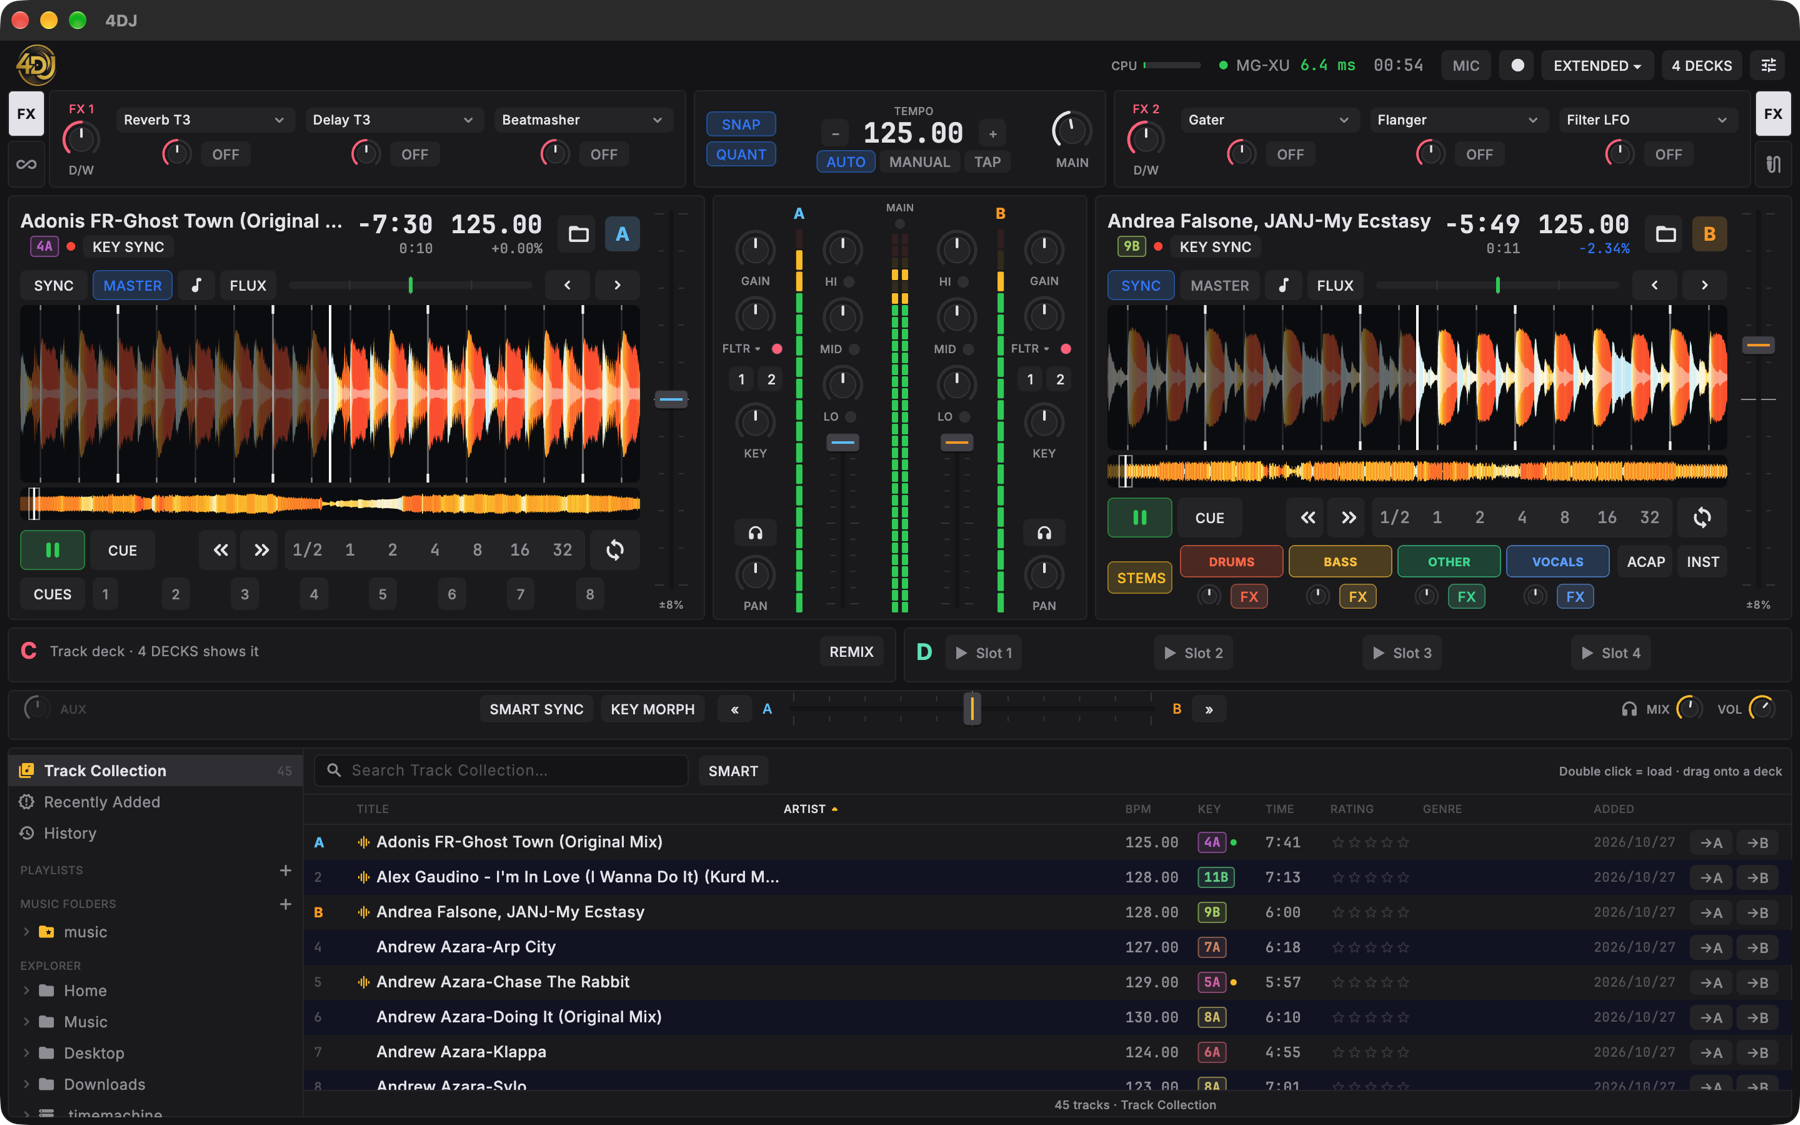
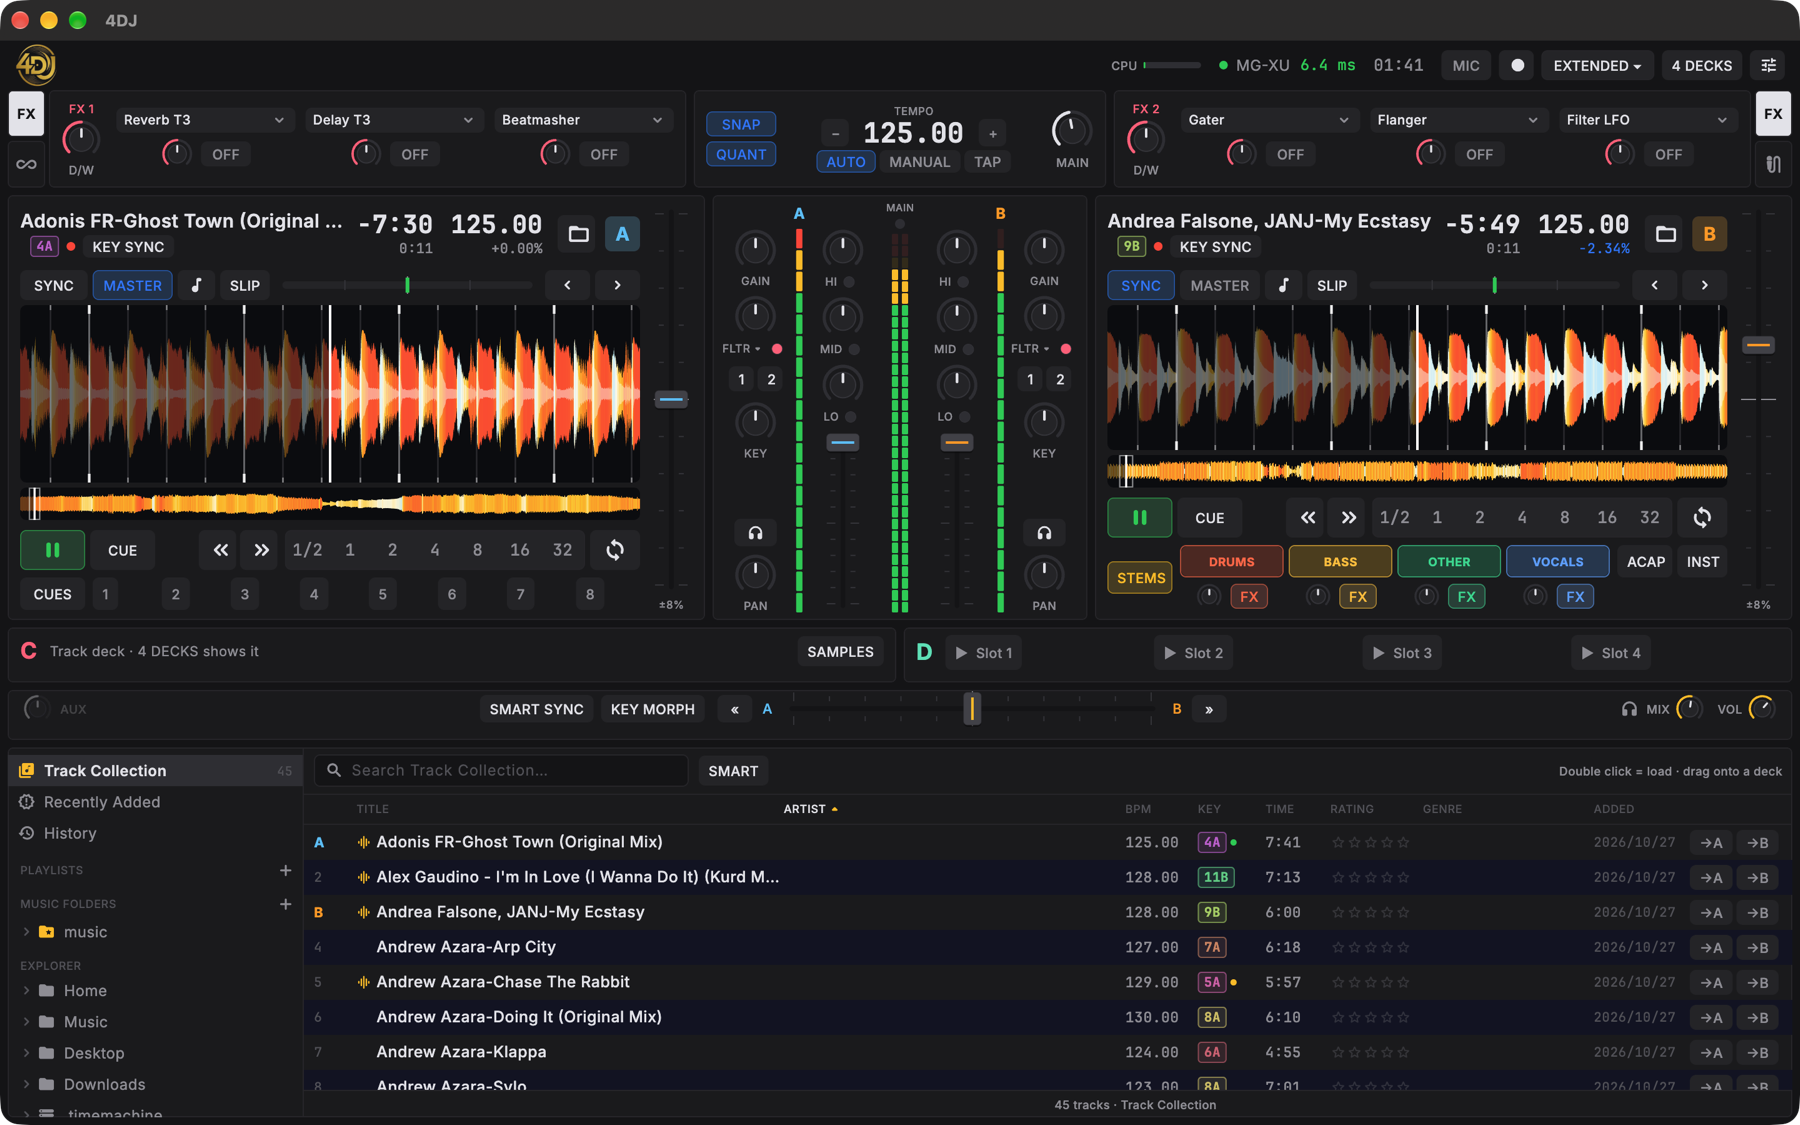
4DJ 0.2.0: Windows, Slip mode and Sample Decks, new screenshots

diff --git a/README.it.md b/README.it.md
@@ -39,7 +39,7 @@ Al primo avvio il **Setup Assistant** chiede tre cose: la scheda audio, le carte
 ## Cosa fa 4DJ
 
 ### Deck
-- 2 o 4 deck. Play, CUE (tenuto: anteprima, come un CDJ), 8 hotcue per traccia, loop da 1/2 a 32 battute, beatjump, Flux mode e reverse.
+- 2 o 4 deck. Play, CUE (tenuto: anteprima, come un CDJ), 8 hotcue per traccia, loop da 1/2 a 32 battute, beatjump, Slip mode e reverse.
 - Tempo fader con key lock, manopola KEY per ±12 semitoni, e SYNC (Beat Sync o Tempo Sync).
 - Scratch e nudge trascinando la waveform. Waveform a colori con zoom, overview, segni di cue e loop, e avviso prima della fine della traccia.
 
@@ -97,14 +97,14 @@ Al primo avvio il **Setup Assistant** chiede tre cose: la scheda audio, le carte
 
 ## Kontrol S2 MK3
 
-Collegala e 4DJ la usa subito, scheda audio compresa (master e cuffie).
+Collegala e 4DJ la usa subito, scheda audio compresa (master e cuffie), su macOS e Windows. Su Windows 4DJ usa la sua scheda in modalità a bassa latenza (circa 7 ms).
 
 | Controllo | In 4DJ |
 |---|---|
 | PLAY, CUE, SYNC, KEYLOCK | Come scritto sulla console (SHIFT + CUE: torna all'inizio; SHIFT + SYNC: master; SHIFT + KEYLOCK: range del tempo) |
-| FLX, REV | Flux mode; reverse finché tenuto |
+| FLX, REV | Slip mode; reverse finché tenuto |
 | Jog | Sopra: scratch. Bordo: nudge. SHIFT: ricerca veloce |
-| Pad | HOTCUES, SHIFT + HOTCUES = loop, SAMPLES = Remix Deck, SHIFT + SAMPLES = stem |
+| Pad | HOTCUES, SHIFT + HOTCUES = loop, SAMPLES = Sample Deck, SHIFT + SAMPLES = stem |
 | BROWSE | Gira per scegliere, premi per caricare |
 | MOVE | Beatjump |
 | LOOP | Gira: ridimensiona il loop attivo o sceglie la misura del prossimo. Premi: loop acceso/spento |
@@ -139,6 +139,8 @@ Su Windows e Linux ⌘ è Ctrl. In 4DJ premi **?** per l'elenco completo.
 **Dove sono le mie impostazioni?** In 4DJ. **Impostazioni → Export…** le salva in un file, per un backup o un altro computer; **Import…** le riporta.
 
 **4DJ modifica i miei file musicali?** No. BPM, tonalità, griglie, cue e valutazioni restano nella libreria di 4DJ.
+
+**Su Windows, perché le altre app non suonano sulla scheda della console?** Per la latenza più bassa 4DJ prende la scheda della Kontrol S2 MK3 tutta per sé (modalità esclusiva). Le altre app tornano a suonare quando chiudi 4DJ; in **Impostazioni → Audio → Devices** puoi spegnere la modalità esclusiva (latenza più alta).
 
 **Dove sono le mie registrazioni?** In Musica/4DJ Recordings, o nella cartella scelta in **Impostazioni → Recording → Mix Recorder**.
 

diff --git a/README.md b/README.md
@@ -39,7 +39,7 @@ On first start the **Setup Assistant** asks for three things: the sound card, yo
 ## What 4DJ does
 
 ### Decks
-- 2 or 4 decks. Play, CUE (hold to preview, like a CDJ), 8 hotcues per track, loops from 1/2 to 32 beats, beatjump, Flux mode and reverse.
+- 2 or 4 decks. Play, CUE (hold to preview, like a CDJ), 8 hotcues per track, loops from 1/2 to 32 beats, beatjump, Slip mode and reverse.
 - Tempo fader with key lock, a KEY knob for ±12 semitones, and SYNC (Beat Sync or Tempo Sync).
 - Scratch and nudge by dragging the waveform. Colour waveforms with zoom, overview, cue and loop markers, and a warning before the end of the track.
 
@@ -97,14 +97,14 @@ On first start the **Setup Assistant** asks for three things: the sound card, yo
 
 ## Kontrol S2 MK3
 
-Plug it in and 4DJ uses it at once, sound card included (master and headphones).
+Plug it in and 4DJ uses it at once, sound card included (master and headphones), on macOS and Windows. On Windows 4DJ takes its sound card in low-latency mode (about 7 ms).
 
 | Control | In 4DJ |
 |---|---|
 | PLAY, CUE, SYNC, KEYLOCK | As printed on the console (SHIFT + CUE: back to the start; SHIFT + SYNC: master; SHIFT + KEYLOCK: tempo range) |
-| FLX, REV | Flux mode; reverse while held |
+| FLX, REV | Slip mode; reverse while held |
 | Jog wheel | Top: scratch. Side: nudge. SHIFT: fast search |
-| Pads | HOTCUES, SHIFT + HOTCUES = loops, SAMPLES = Remix Deck, SHIFT + SAMPLES = stems |
+| Pads | HOTCUES, SHIFT + HOTCUES = loops, SAMPLES = Sample Deck, SHIFT + SAMPLES = stems |
 | BROWSE | Turn to choose, push to load |
 | MOVE | Beatjump |
 | LOOP | Turn: resize the active loop, or pick the size of the next. Push: loop on/off |
@@ -139,6 +139,8 @@ On Windows and Linux, ⌘ is Ctrl. Press **?** in 4DJ for the full list.
 **Where are my settings?** In 4DJ. **Settings → Export…** saves them to a file, for a backup or another computer; **Import…** brings them back.
 
 **Does 4DJ change my music files?** No. BPM, keys, grids, cues and ratings stay in 4DJ's library.
+
+**On Windows, why do other apps go silent on the console's sound card?** For the lowest latency 4DJ takes the Kontrol S2 MK3's card for itself (exclusive mode). Other apps play again when 4DJ closes; in **Settings → Audio → Devices** you can switch exclusive mode off (higher latency).
 
 **Where are my recordings?** In Music/4DJ Recordings, or the folder chosen in **Settings → Recording → Mix Recorder**.
 
